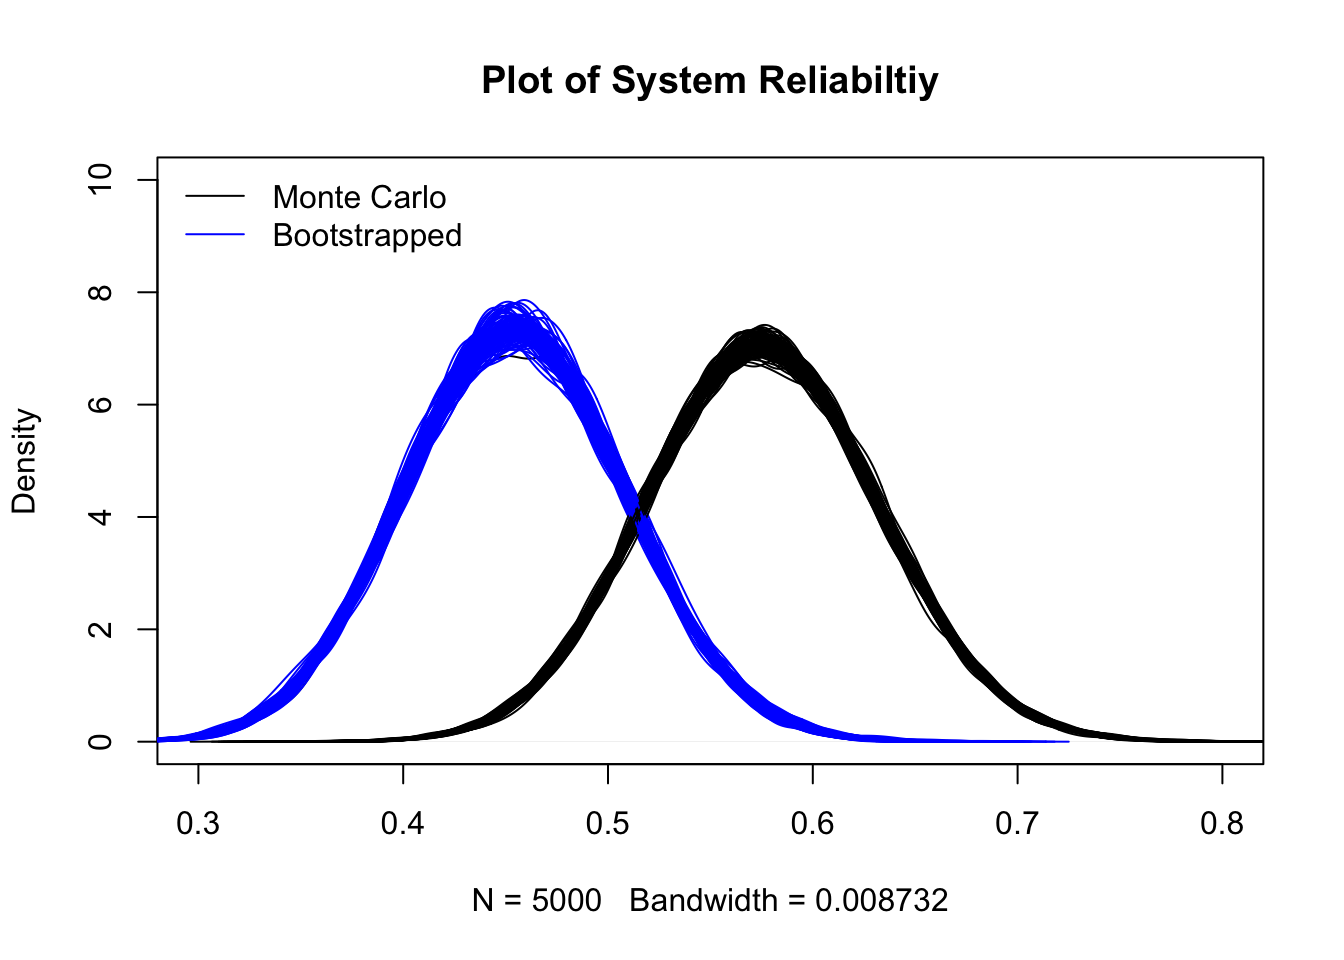
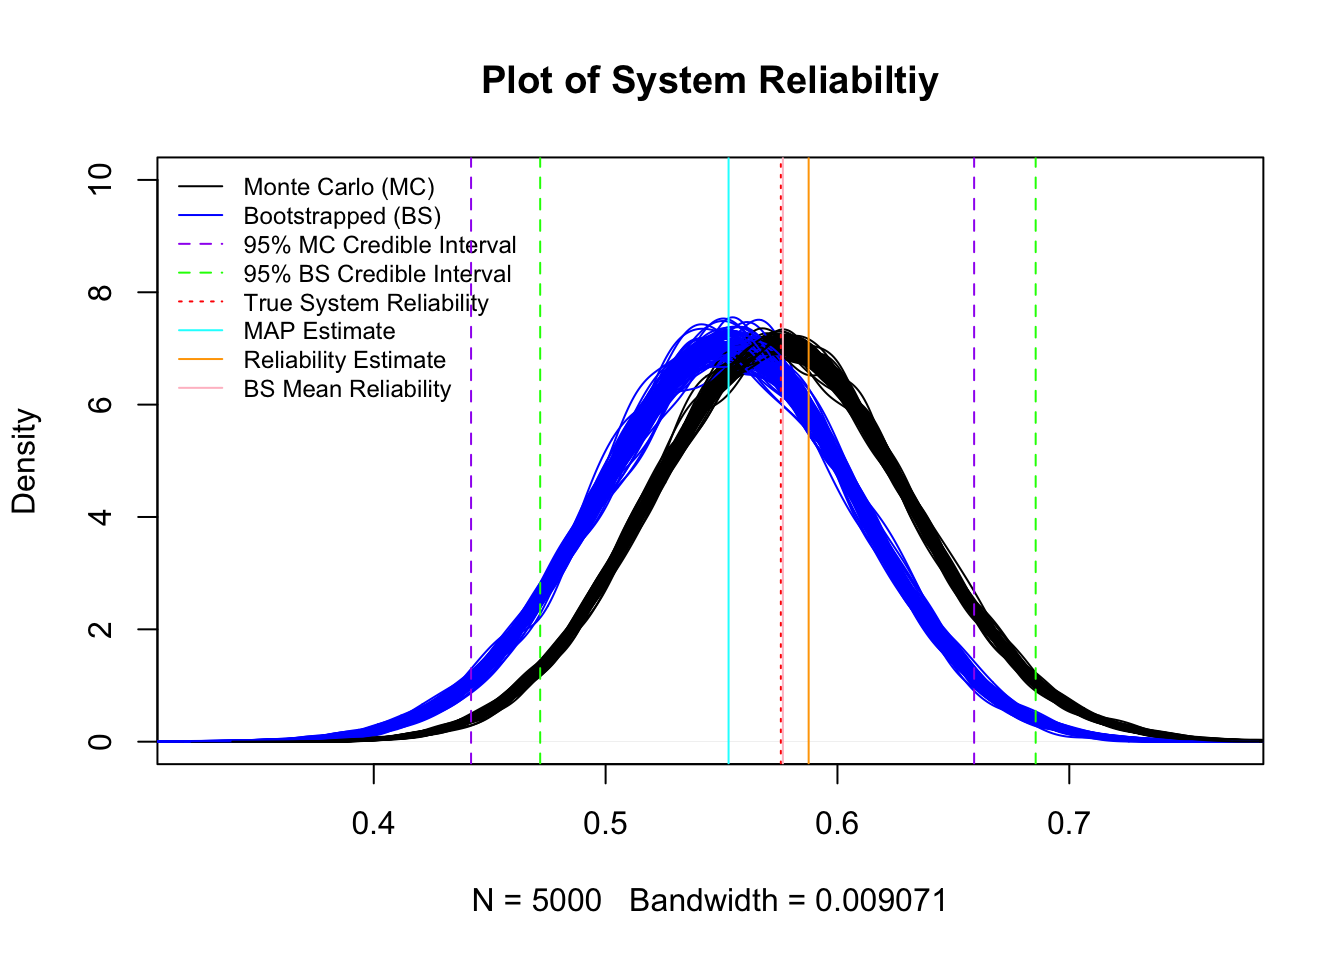
More updates

diff --git a/content/professional/Bayesian Reliability Analysis.html b/content/professional/Bayesian Reliability Analysis.html
@@ -13,6 +13,9 @@ output:
 <script src="Bayesian Reliability Analysis_files/header-attrs/header-attrs.js"></script>
 
 
+<p>In this piece, I expanded upon the</p>
+<p>system reliability</p>
+<p>presented in a paper written</p>
 <p><span class="math display">\[f(\pi|x) = \frac{f(x|\pi)f(\pi)}{f(x)} \propto f(x|\pi)f(\pi)\]</span>
 <span class="math display">\[X \sim Bin(n,\pi) \rightarrow f(x|\pi) \sim Bin(x;n,\pi)\]</span>
 <span class="math display">\[\pi \sim Beta(a,b) \rightarrow f(\pi) = Beta(\pi;a,b)\]</span>
@@ -52,8 +55,8 @@ The Mellin transform of each Beta random variable is -</p>
 Then the Mellin transform of the product of the Mellin transforms is -</p>
 <p><span class="math display">\[M \{ g(z)|s \} = \frac{\Gamma(a_i + b_i)}{\Gamma (a_i)} \frac{1}{(s+a_i-1)(s+a_i)...(s+a_i-2+b)}\]</span></p>
 <p>The probability density function of this is -</p>
-<p><span class="math display">\[g(z) = \frac{1}{2\pi i} \int_{c-i^\infty}^{c+i^\infty} z^{-s} \prod_{i=1}^N M\{f_i(x_i)|s\}ds = \prod_{i=1}^N \frac{\Gamma(a_i + b_i)}{\Gamma(a_i)}G_{N0}^{N0}()\]</span>
-which is a Meijer G-function which has the closed form representation -</p>
+<p><span class="math display">\[g(z) = \frac{1}{2\pi i} \int_{c-i^\infty}^{c+i^\infty} z^{-s} \prod_{i=1}^N M\{f_i(x_i)|s\}ds = \prod_{i=1}^N \frac{\Gamma(a_i + b_i)}{\Gamma(a_i)}G_{N0}^{N0}(z| )\]</span></p>
+<p>which is a Meijer G-function which has the closed form representation -</p>
 <p>Extending this to the situation where we have a product of independent and identically distributed Beta random variables, the resulting probability distribution function can be represented in closed-form as -</p>
 <p>where</p>
 <p>We can deduce that the expression for the Mellin transform of the product of the Mellin transforms of the independent Beta random variables and the Mellin transform of a Beta random variable, are very similar. This demonstrates that a product of Beta random variables is a Beta random variable. That is, the reliability of a system whose components are configured serially and the reliability of each independent component follows a Beta distribution, follows a Beta distribution itself as a result of a product of the component reliabilities. To determine the parameter values of the Beta distribution that the system reliability follows, the method of moments is utilized to approximate them.</p>
@@ -88,7 +91,9 @@ Rearranging for <span class="math inline">\(a_s\)</span> and <span class="math i
 where <span class="math inline">\(F^{-1}\)</span> is the inverse of the Beta cumulative distribution function (CDF).</p>
 <p><strong>Simulation</strong></p>
 <p>Here is code I’ve written below to obtain the standard error of system reliability based on component reliabilties via Monte Carlo simulation and bootstrapping to show agreement between the analytically derived distribution and the distributional result from resampling for system reliability. It is also possible to bootstrap the power for sample size calculations.</p>
-<pre class="r"><code>library(dplyr)</code></pre>
+<pre class="r"><code># reliability simulation
+
+library(dplyr)</code></pre>
 <pre><code>## 
 ## Attaching package: &#39;dplyr&#39;</code></pre>
 <pre><code>## The following objects are masked from &#39;package:stats&#39;:
@@ -98,6 +103,7 @@ where <span class="math inline">\(F^{-1}\)</span> is the inverse of the Beta cum
 ## 
 ##     intersect, setdiff, setequal, union</code></pre>
 <pre class="r"><code>library(ggplot2)
+set.seed(2022)
 
 # 5 components
 nsim = 5000
@@ -129,20 +135,22 @@ mu_s = prod(mu1,mu2,mu3,mu4,mu5); var_s = mu_s* prod((n1-f1+1)/(n1+2),
                                                      (n5-f5+1)/(n5+2)) - mu_s^2
 
 a_s = mu_s*((mu_s - mu_s^2)/var_s - 1); b_s = (1-mu_s)*((mu_s - mu_s^2)/var_s - 1)
+
 # monte carlo simulation
-# plotting the densities
 r_s.sim = rbeta(n = nsim,shape1 = a_s,shape2 = b_s)
 r_s.sim %&gt;% density %&gt;% plot(main = &quot;Plot of System Reliabiltiy&quot;,
-                              xlim = c(0.3,.8),
-                              ylim = c(0,10))
-legend(&quot;topleft&quot;,legend = c(&quot;Monte Carlo&quot;,&quot;Bootstrapped&quot;),lty = c(1,1),
-       col = c(&quot;black&quot;,&quot;blue&quot;),bty = &quot;n&quot;)
+                             ylim = c(0,10))
+legend(&quot;topleft&quot;,legend = c(&quot;Monte Carlo (MC)&quot;,&quot;Bootstrapped (BS)&quot;,&quot;95% MC Credible Interval&quot;,
+                            &quot;95% BS Credible Interval&quot;,&quot;True System Reliability&quot;,
+                            &quot;MAP Estimate&quot;,&quot;Reliability Estimate&quot;,&quot;BS Mean Reliability&quot;),lty = c(1,1,2,2,3,1,1,1),
+       col = c(&quot;black&quot;,&quot;blue&quot;,&quot;purple&quot;,&quot;green&quot;,&quot;red&quot;,&quot;cyan&quot;,&quot;orange&quot;,&quot;pink&quot;),bty = &quot;n&quot;, cex = .75)
 
 # estimating density, mean and variance via bootstrapping 
 nboot = 10000
 nbias = 100
 r_s.boot = rep(0,nboot)
 bias.boot = rep(0,nbias)
+
 for(j in 1:nbias){
   for (i in 1:nboot){
     f1 = rbinom(n = 1,size = n1,prob = 1-R1); s1 = n1-f1
@@ -158,19 +166,30 @@ for(j in 1:nbias){
   
   r_s.sim %&gt;% density %&gt;% lines(col = &quot;blue&quot;)
   r_s.boot %&gt;% density %&gt;% lines(col = &quot;black&quot;)
-}</code></pre>
+}
+
+# 95% credible interval
+boot.lci = sort(r_s.boot)[nboot*.025]; boot.uci = sort(r_s.boot)[nboot*.975]
+abline(v = c(boot.lci,boot.uci),col = &quot;green&quot;,lty = 2)
+
+sim.lci = qbeta(.025,shape1 = a_s,shape2 = b_s); sim.uci = qbeta(.975,shape1 = a_s,shape2 = b_s)
+abline(v = c(sim.lci,sim.uci),col = &quot;purple&quot;,lty = 2)
+abline(v = R_s,col = &quot;red&quot;,lty = 3) # true reliability value
+
+map.estimate = (a_s - 1)/(a_s + b_s - 2); abline(v = map.estimate, col = &quot;cyan&quot;) # MAP estimate
+abline(v = r_s, col = &quot;orange&quot;) # reliability estimate
+abline(v = mean(r_s.boot),col = &quot;pink&quot;) # mean bootstrapped reliability estimate</code></pre>
 <p><img src="/professional/Bayesian%20Reliability%20Analysis_files/figure-html/unnamed-chunk-1-1.png" width="672" /></p>
 <pre class="r"><code># mean and standard error for system reliability
 r_s.boot %&gt;% mean; r_s.boot %&gt;% var %&gt;% sqrt</code></pre>
-<pre><code>## [1] 0.5753371</code></pre>
-<pre><code>## [1] 0.05569815</code></pre>
+<pre><code>## [1] 0.5764672</code></pre>
+<pre><code>## [1] 0.0550227</code></pre>
 <pre class="r"><code>r_s.sim %&gt;% mean; r_s.sim %&gt;% var %&gt;% sqrt</code></pre>
-<pre><code>## [1] 0.4550278</code></pre>
-<pre><code>## [1] 0.05350287</code></pre>
+<pre><code>## [1] 0.5509322</code></pre>
+<pre><code>## [1] 0.05519228</code></pre>
 <pre class="r"><code># bias
-#bias = r_s.sim %&gt;% mean - r_s.boot %&gt;% mean
-bias.boot %&gt;% mean # bias is somewhat negligible</code></pre>
-<pre><code>## [1] -0.1208945</code></pre>
+bias.boot %&gt;% mean # bias seems to increase as reliability increases? estimator could be performing poorly at the extremes</code></pre>
+<pre><code>## [1] -0.02408516</code></pre>
 <pre class="r"><code>bias.boot %&gt;% hist(breaks = 10,freq = FALSE)
 bias.boot %&gt;% density() %&gt;% lines(col = &quot;green&quot;)</code></pre>
 <p><img src="/professional/Bayesian%20Reliability%20Analysis_files/figure-html/unnamed-chunk-1-2.png" width="672" /></p>
@@ -179,7 +198,18 @@ y.post = numeric()
 r_s.sim = rbeta(n = nsim,shape1 = a_s,shape2 = b_s)
 for (i in 1:nsim) {
   y.post[i] = rbinom(n = 1,size = 1,prob = r_s.sim[i])  
-}</code></pre>
+}
+
+fail.count = 0; success.count = 0
+for (i in 1:nsim) {
+  if(y.post[i] == 0){
+    fail.count = fail.count + 1
+  } else {success.count = success.count + 1}
+}
+
+(c(fail.count,success.count)/nsim) %&gt;% barplot(names.arg = c(&quot;Fail&quot;,&quot;Success&quot;),
+                                               main = &quot;Posterior Predictive Distribution&quot;)</code></pre>
+<p><img src="/professional/Bayesian%20Reliability%20Analysis_files/figure-html/unnamed-chunk-1-3.png" width="672" /></p>
 <p><strong>References</strong></p>
 <ol style="list-style-type: decimal">
 <li>The Distribution of Products of Beta, Gamma and Gaussian Random Variables</li>
